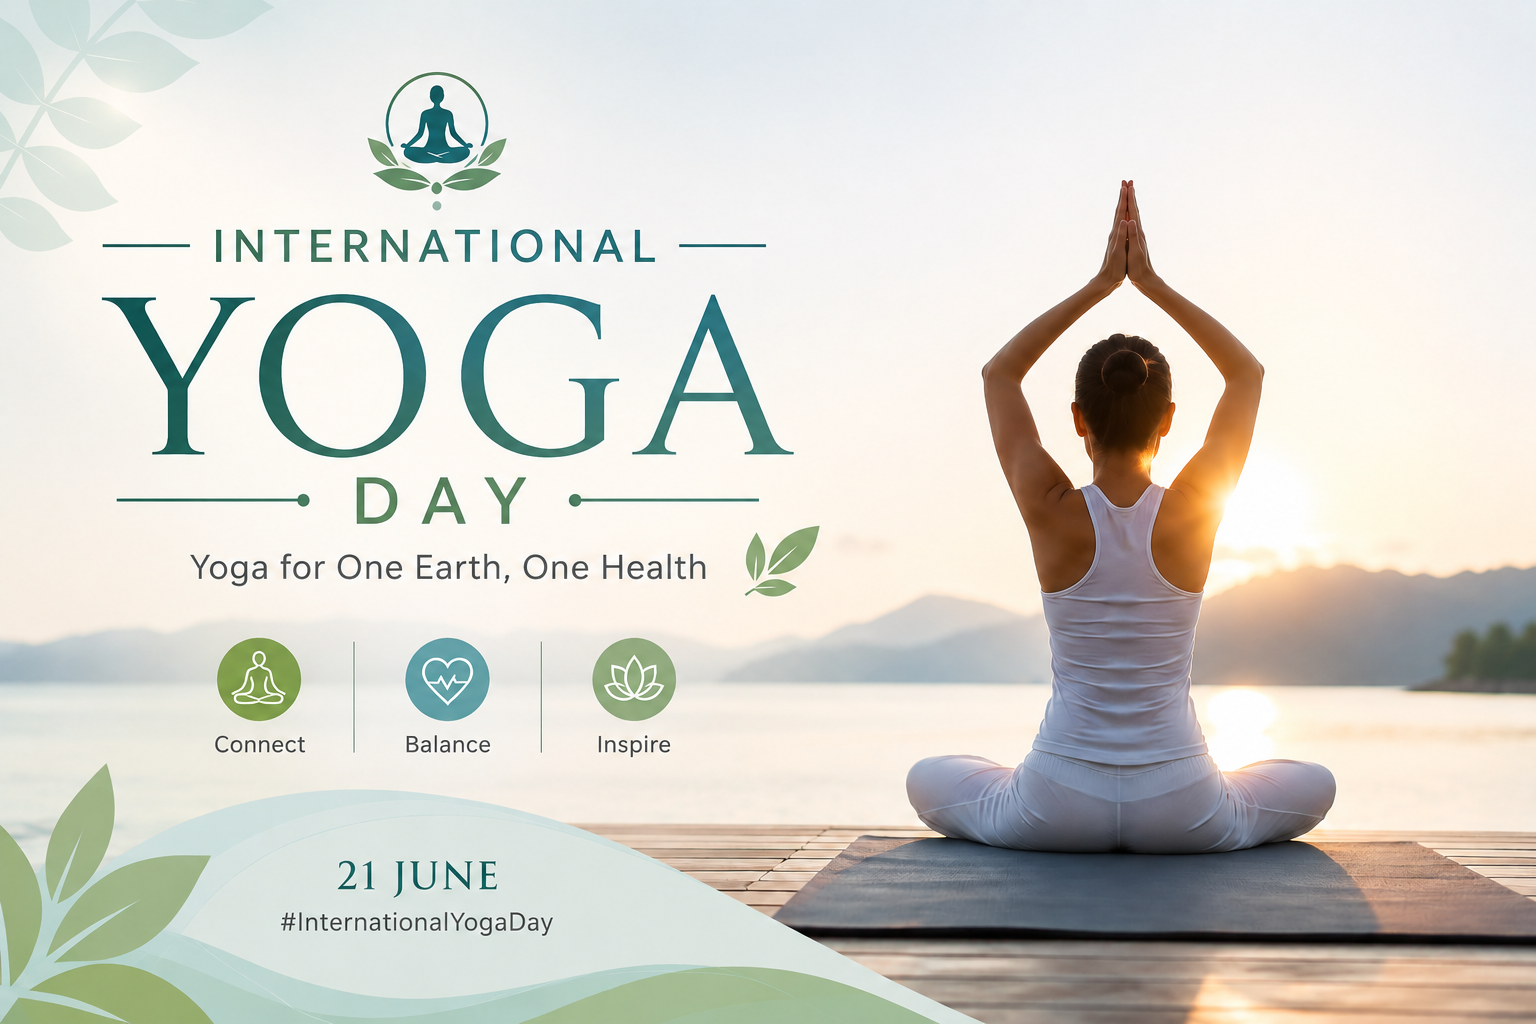
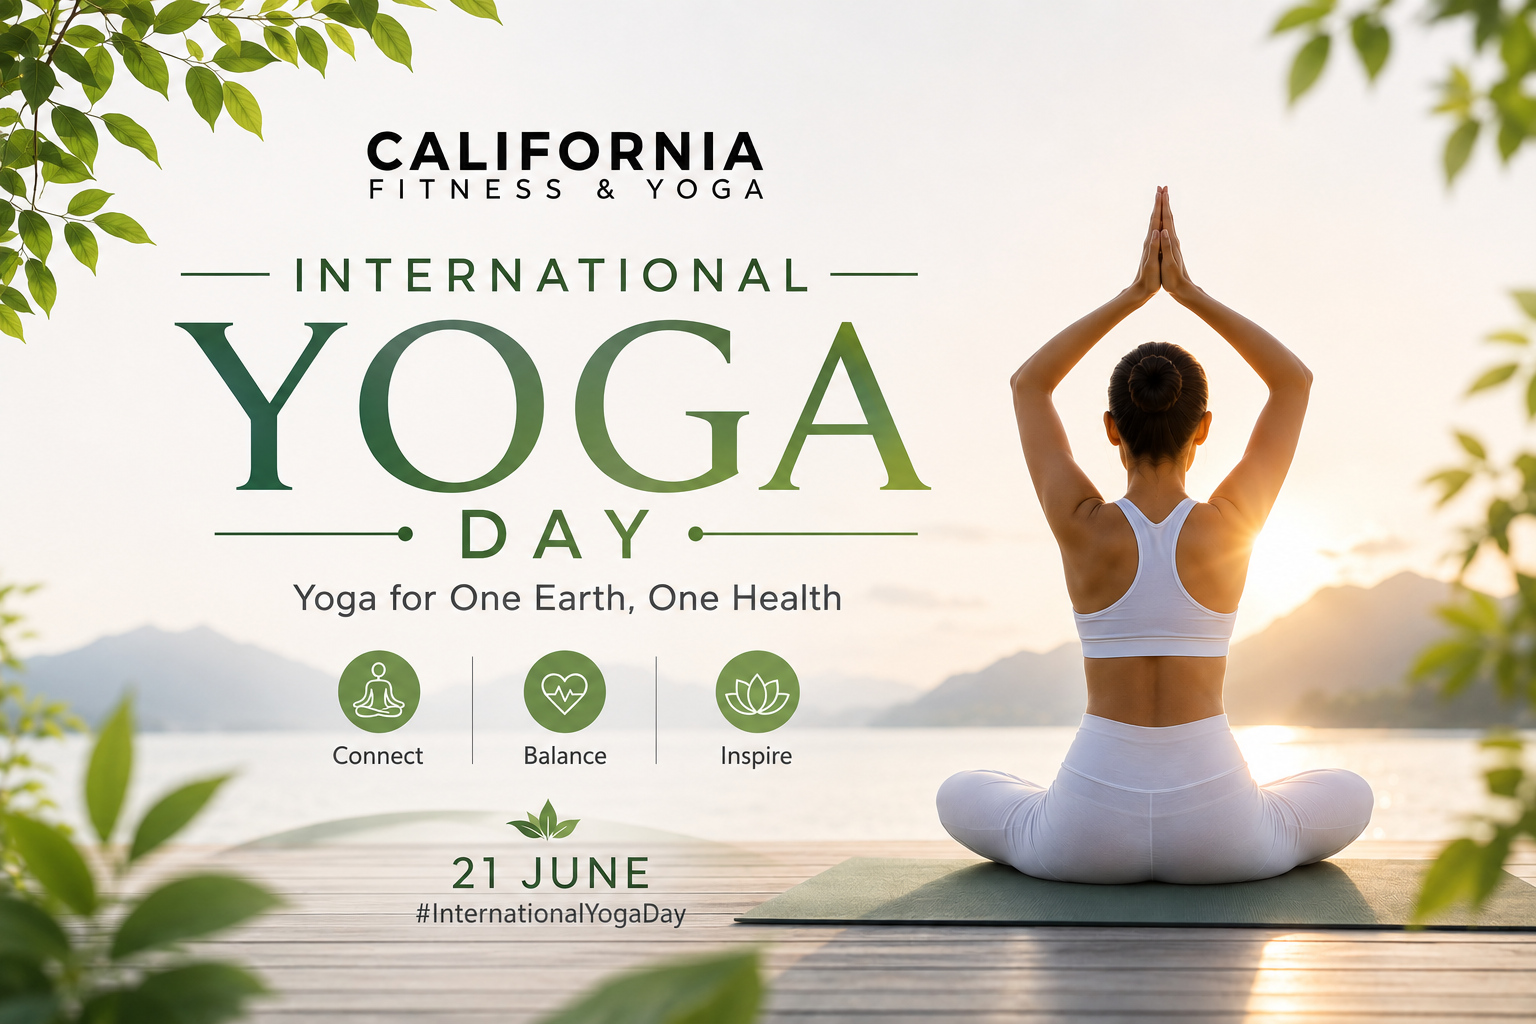
Add files via upload

diff --git a/index.html b/index.html
@@ -12,10 +12,15 @@
 
     body {
       font-family: Inter, system-ui, -apple-system, BlinkMacSystemFont, "Segoe UI", sans-serif;
-      min-height: 100vh;
+      min-height: 100svh;
       color: #0f172a;
       background:
-        linear-gradient(90deg, rgba(255,255,255,.08) 0%, rgba(255,255,255,.10) 45%, rgba(255,255,255,.12) 100%),
+        linear-gradient(
+          90deg,
+          rgba(255,255,255,.54) 0%,
+          rgba(255,255,255,.62) 42%,
+          rgba(255,255,255,.76) 100%
+        ),
         url('./background.png');
       background-size: cover;
       background-position: center center;
@@ -24,14 +29,24 @@
     }
 
     .page {
-      min-height: 100vh;
+      min-height: 100svh;
       position: relative;
-      padding: 30px 28px 34px;
+      padding: clamp(16px, 2.2vw, 30px) clamp(16px, 2vw, 28px) clamp(22px, 2.5vw, 34px);
+      isolation: isolate;
+    }
+
+    .page::before {
+      content: "";
+      position: fixed;
+      inset: 0;
+      background: rgba(255,255,255,.14);
+      pointer-events: none;
+      z-index: -1;
     }
 
     .top-tabs {
       position: absolute;
-      top: 55px;
+      top: clamp(34px, 5vh, 55px);
       left: 50%;
       transform: translateX(-50%);
       width: min(520px, calc(100vw - 40px));
@@ -41,8 +56,8 @@
       gap: 8px;
       padding: 10px;
       border-radius: 28px;
-      background: rgba(255,255,255,.78);
-      border: 1px solid rgba(255,255,255,.7);
+      background: rgba(255,255,255,.82);
+      border: 1px solid rgba(255,255,255,.78);
       backdrop-filter: blur(18px);
       -webkit-backdrop-filter: blur(18px);
       box-shadow: 0 18px 45px rgba(15, 23, 42, .12);
@@ -69,14 +84,14 @@
 
     .lang-switch {
       position: absolute;
-      top: 42px;
-      right: 42px;
+      top: clamp(34px, 5vh, 55px);
+      right: clamp(18px, 3vw, 42px);
       display: flex;
       gap: 6px;
       padding: 6px;
       border-radius: 24px;
-      background: rgba(255,255,255,.78);
-      border: 1px solid rgba(255,255,255,.7);
+      background: rgba(255,255,255,.82);
+      border: 1px solid rgba(255,255,255,.78);
       backdrop-filter: blur(18px);
       -webkit-backdrop-filter: blur(18px);
       box-shadow: 0 14px 35px rgba(15,23,42,.10);
@@ -103,15 +118,15 @@
     }
 
     .main-layout {
-      min-height: calc(100vh - 64px);
+      min-height: calc(100svh - 64px);
       display: grid;
-      grid-template-columns: 1fr 520px 1fr;
+      grid-template-columns: minmax(14vw, 1fr) minmax(320px, clamp(420px, 34vw, 520px)) minmax(14vw, 1fr);
       align-items: center;
       justify-items: center;
-      gap: 26px;
+      gap: clamp(16px, 2vw, 26px);
       max-width: 1500px;
       margin: 0 auto;
-      padding-top: 120px;
+      padding-top: clamp(86px, 9vh, 120px);
     }
 
     .left-safe-zone,
@@ -120,17 +135,17 @@
     }
 
     .form-card {
-      width: 100%;
+      width: clamp(320px, 34vw, 520px);
       max-width: 520px;
       margin: 0 auto;
       transform: translateY(-8px);
-      background: rgba(255,255,255,.82);
-      border: 1px solid rgba(255,255,255,.78);
-      backdrop-filter: blur(22px);
-      -webkit-backdrop-filter: blur(22px);
-      border-radius: 30px;
+      background: rgba(255,255,255,.86);
+      border: 1px solid rgba(255,255,255,.82);
+      backdrop-filter: blur(24px);
+      -webkit-backdrop-filter: blur(24px);
+      border-radius: clamp(24px, 2vw, 30px);
       box-shadow: 0 28px 70px rgba(15,23,42,.16);
-      padding: 30px;
+      padding: clamp(22px, 2vw, 30px);
     }
 
     .brand-green { color:#2f754b; }
@@ -169,21 +184,21 @@
 
     @media (max-width: 1180px) {
       .main-layout {
-      min-height: calc(100vh - 64px);
+      min-height: calc(100svh - 64px);
       display: grid;
-      grid-template-columns: 1fr 520px 1fr;
+      grid-template-columns: minmax(14vw, 1fr) minmax(320px, clamp(420px, 34vw, 520px)) minmax(14vw, 1fr);
       align-items: center;
       justify-items: center;
-      gap: 26px;
+      gap: clamp(16px, 2vw, 26px);
       max-width: 1500px;
       margin: 0 auto;
-      padding-top: 120px;
+      padding-top: clamp(86px, 9vh, 120px);
     }
 
     @media (max-width: 980px) {
       body {
         background:
-          linear-gradient(rgba(255,255,255,.66), rgba(255,255,255,.78)),
+          linear-gradient(rgba(255,255,255,.72), rgba(255,255,255,.84)),
           url('./background.png');
         background-size: cover;
         background-position: center top;
@@ -191,12 +206,24 @@
       }
 
       .page {
-        padding: 20px 16px 28px;
-      }
+      min-height: 100svh;
+      position: relative;
+      padding: clamp(16px, 2.2vw, 30px) clamp(16px, 2vw, 28px) clamp(22px, 2.5vw, 34px);
+      isolation: isolate;
+    }
+
+    .page::before {
+      content: "";
+      position: fixed;
+      inset: 0;
+      background: rgba(255,255,255,.14);
+      pointer-events: none;
+      z-index: -1;
+    }
 
       .top-tabs {
       position: absolute;
-      top: 55px;
+      top: clamp(34px, 5vh, 55px);
       left: 50%;
       transform: translateX(-50%);
       width: min(520px, calc(100vw - 40px));
@@ -206,8 +233,8 @@
       gap: 8px;
       padding: 10px;
       border-radius: 28px;
-      background: rgba(255,255,255,.78);
-      border: 1px solid rgba(255,255,255,.7);
+      background: rgba(255,255,255,.82);
+      border: 1px solid rgba(255,255,255,.78);
       backdrop-filter: blur(18px);
       -webkit-backdrop-filter: blur(18px);
       box-shadow: 0 18px 45px rgba(15, 23, 42, .12);